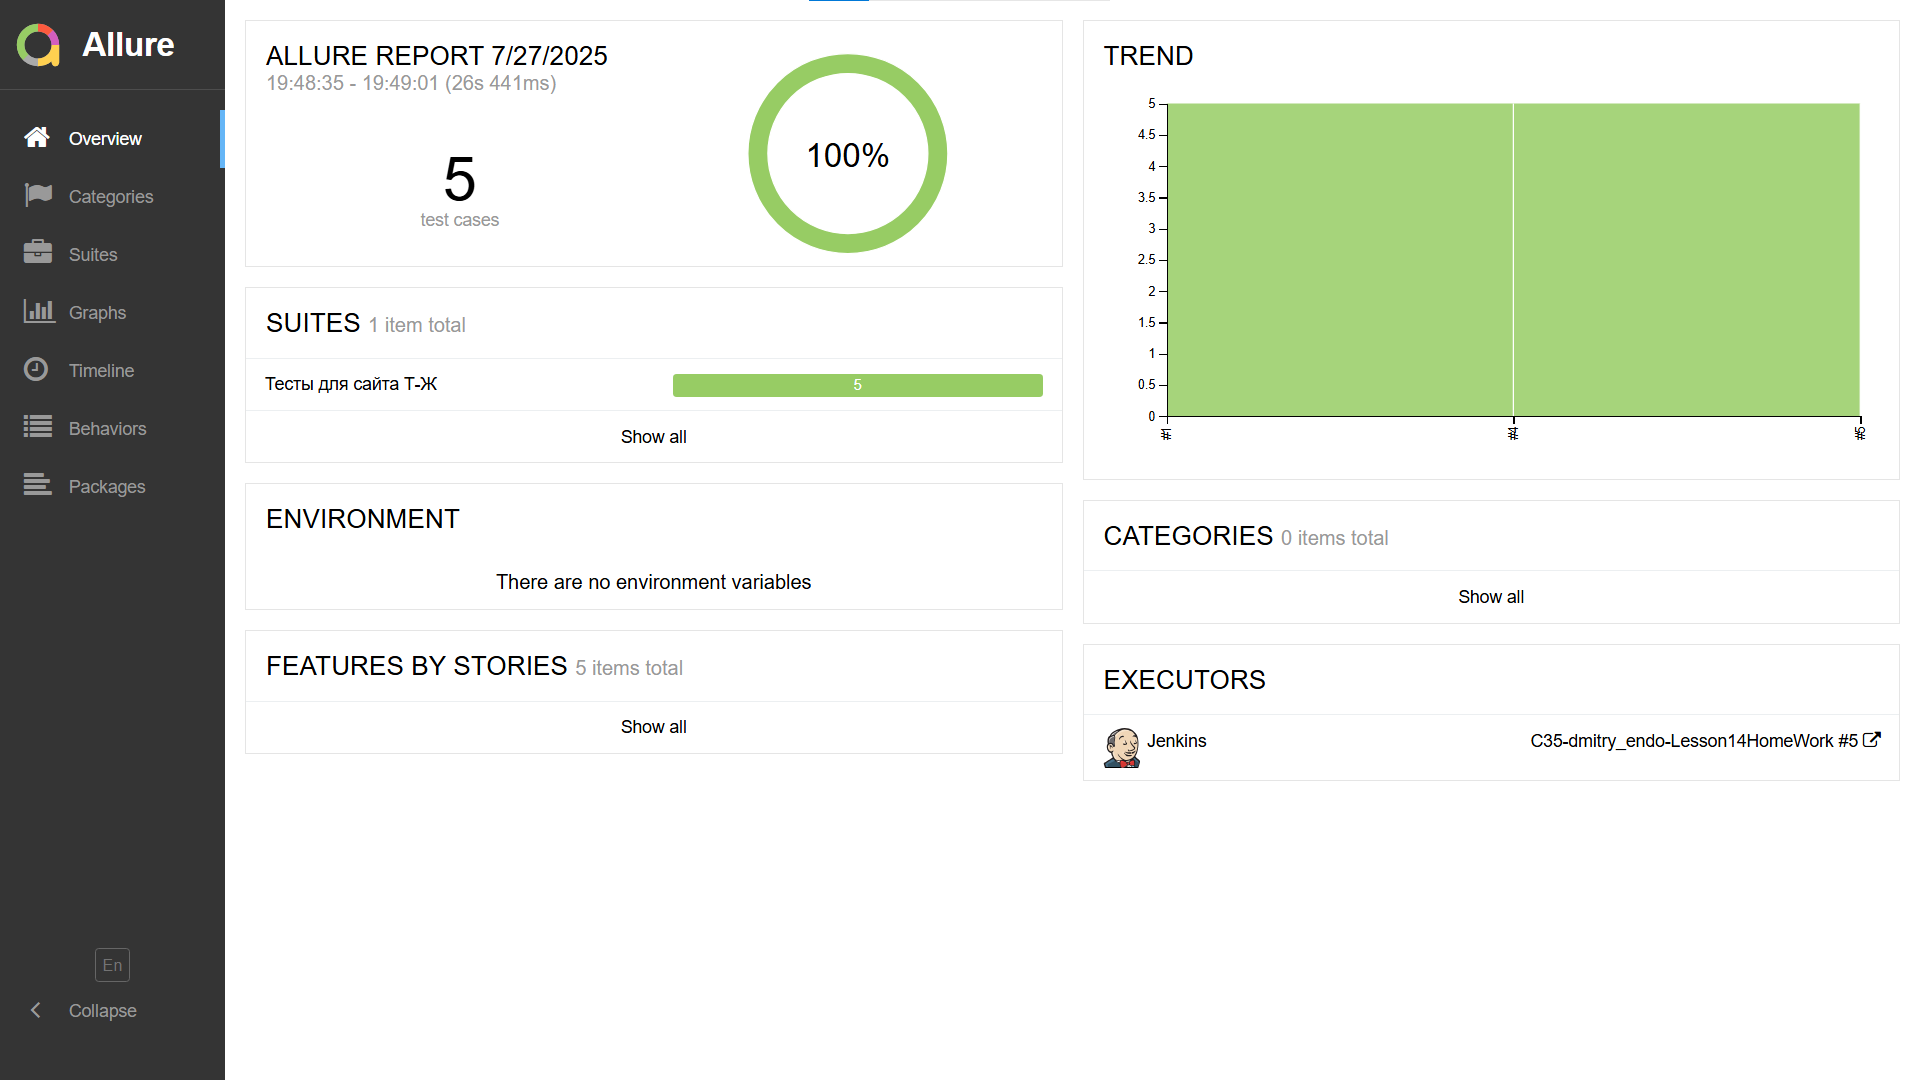
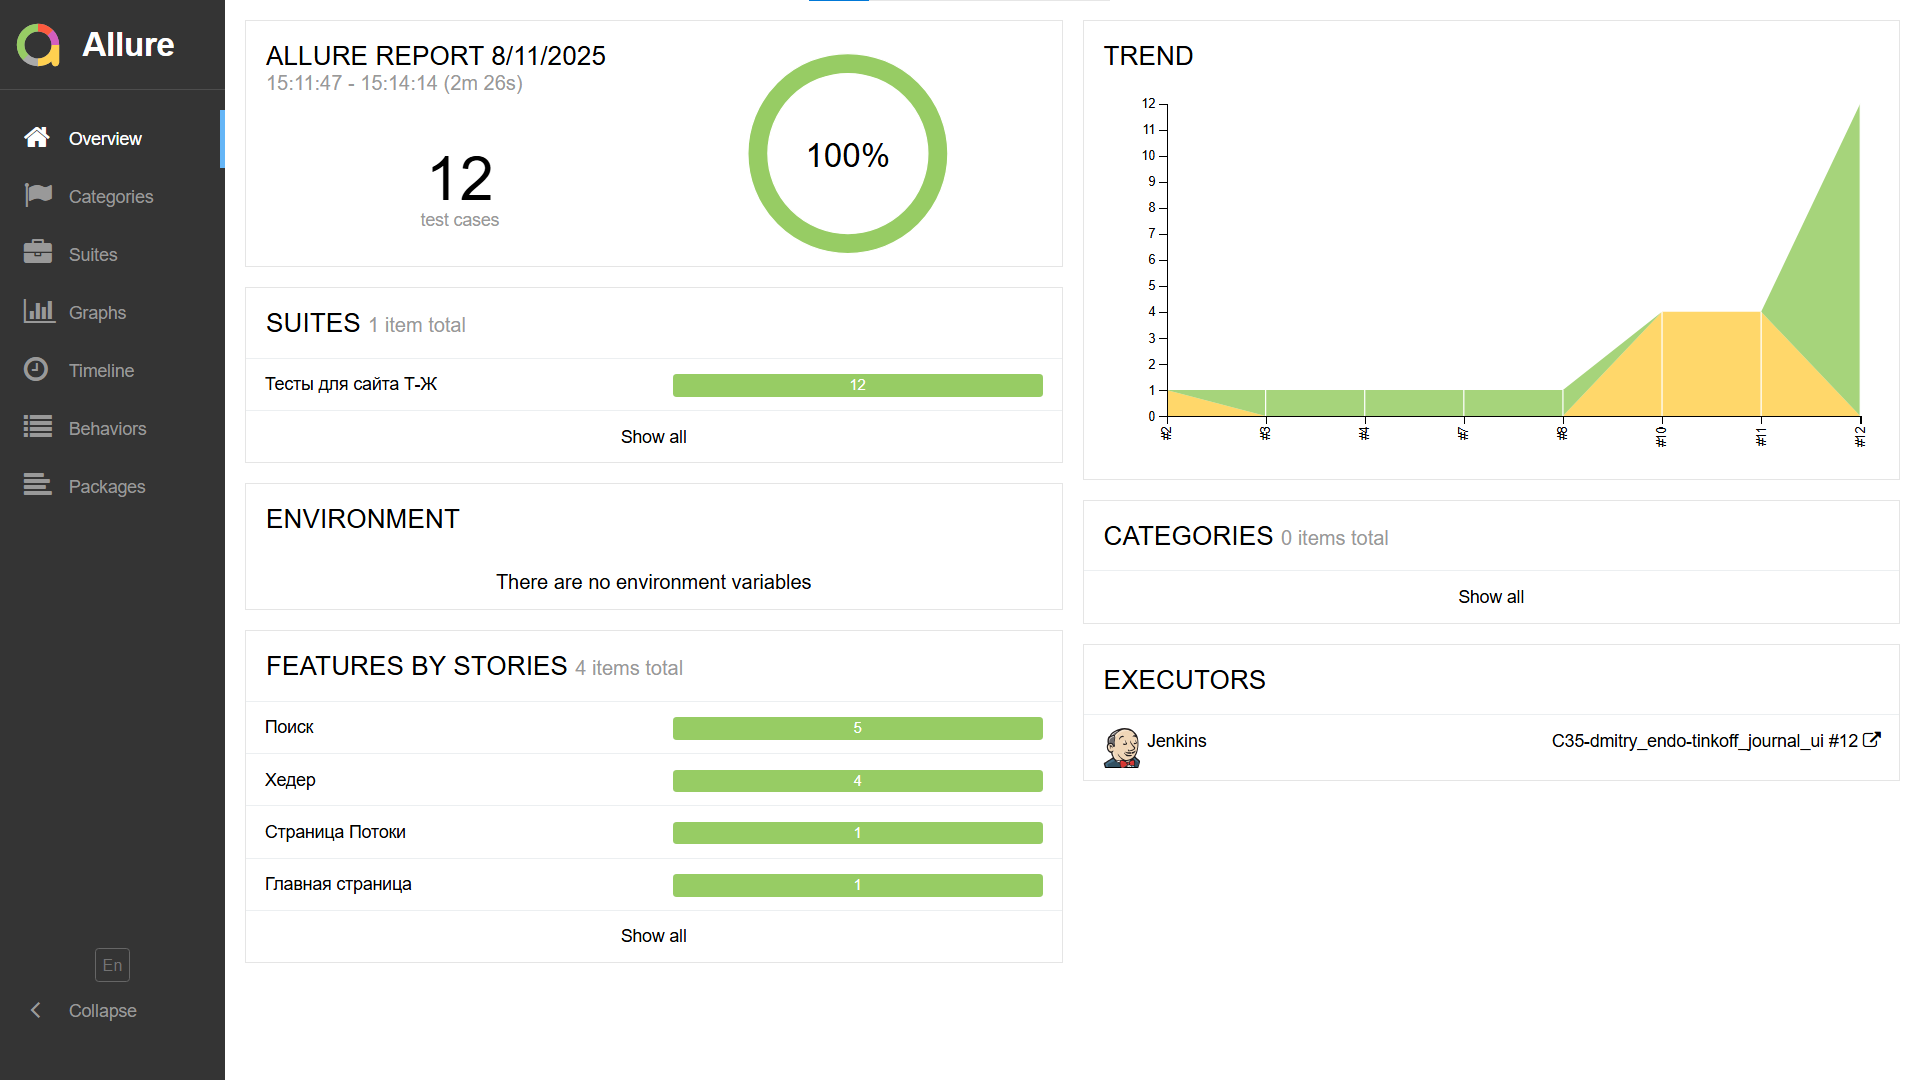
Updated README.md

diff --git a/README.md b/README.md
@@ -70,7 +70,7 @@ ____
 
 ____
 <a id="jenkins"></a>
-## <img alt="Jenkins" height="25" src="media/logos/Jenkins.svg" width="25"/></a><a name="Сборка"></a> Сборка в [Jenkins](https://jenkins.autotests.cloud/job/C35-dmitry_endo-Lesson14HomeWork/)</a>
+## <img alt="Jenkins" height="25" src="media/logos/Jenkins.svg" width="25"/></a><a name="Сборка"></a> Сборка в [Jenkins](https://jenkins.autotests.cloud/job/C35-dmitry_endo-tinkoff_journal_ui/)</a>
 ____
 <p align="center">  
 <a href="https://jenkins.autotests.cloud/job/35-julpro-hw14/"><img src="media/results/jenkins_job.png" alt="Jenkins" width="850"/></a>  
@@ -87,13 +87,17 @@ gradle clean test -Denv=local
 
 ***Удалённый запуск через Jenkins:***
 ```bash  
-gradle clean test -Denv=remote
+gradle clean test 
+-Denv=remote 
+-Dbrowser=${BROWSER_NAME}
+-DbrowserVersion=${BROWSER_VERSION}
+-DbrowserSize=${SCREEN_RESOLUTION}
 ```
 
 
 ___
 <a id="allure"></a>
-## <img alt="Allure" height="25" src="media/logos/Allure.svg" width="25"/></a> <a name="Allure"></a> Allure [отчет](https://jenkins.autotests.cloud/job/C35-dmitry_endo-Lesson14HomeWork/5/allure/)</a>
+## <img alt="Allure" height="25" src="media/logos/Allure.svg" width="25"/></a> <a name="Allure"></a> Allure [отчет](https://jenkins.autotests.cloud/job/C35-dmitry_endo-tinkoff_journal_ui/12/allure/)</a>
 ___
 
 ### *Основная страница отчёта*
@@ -136,17 +140,17 @@ ____
 
 ___
 <a id="integrations"></a>
-## <img alt="Allure TestOps" height="25" src="media/logos/Allure2.svg" width="25"/></a> <a name="Интеграция с Allure TestOps"></a>Интеграция с [Allure TestOps](https://allure.autotests.cloud/project/4812/dashboards)</a>
+## <img alt="Allure TestOps" height="25" src="media/logos/Allure2.svg" width="25"/></a> <a name="Интеграция с Allure TestOps"></a>Интеграция с [Allure TestOps](https://allure.autotests.cloud/project/4877/dashboards)</a>
 ___
 
 ### *Основные страницы*
 
 <p align="center">  
-<img title="Allure TestOps" src="media/" width="950">  
+<img title="Allure TestOps" src="media/results/allure_testops_dashboard.png" width="950">  
 </p>  
 
 <p align="center">  
-<img title="Allure Tests" src="media/" width="950">  
+<img title="Allure Tests" src="media/results/allure_testops_cases.png" width="950">  
 </p>
 
 ____
